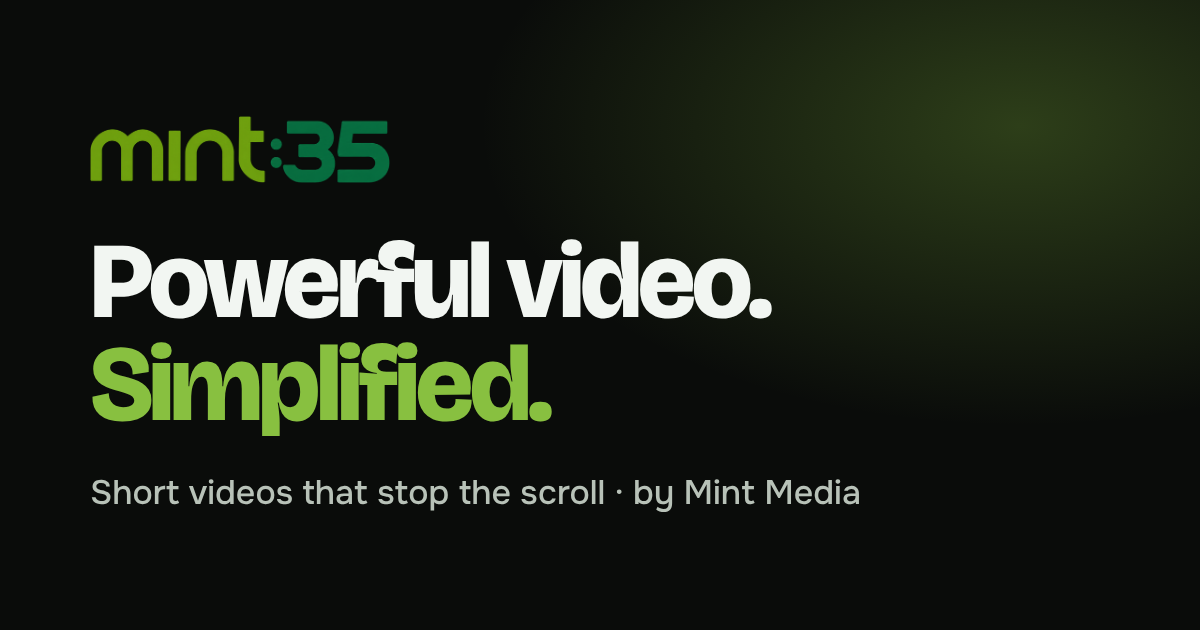
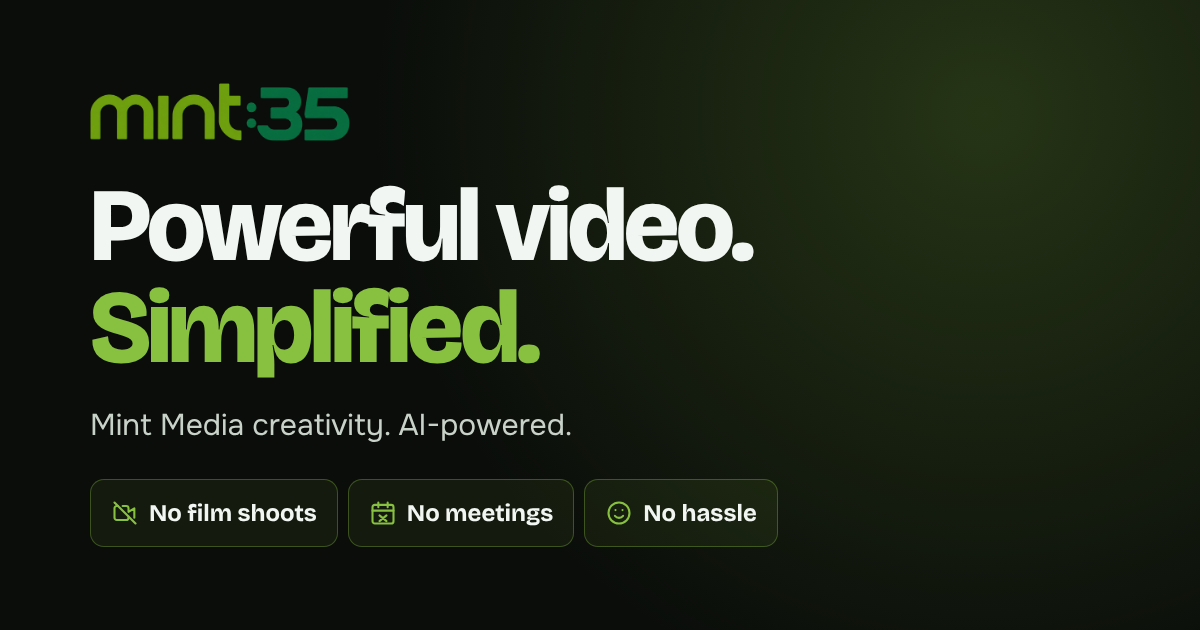
Mint 35: new link preview (WhatsApp, iMessage, social) (#77)
Claude-Session: https://claude.ai/code/session_01Gn4ycKQSx2aQDxxekZbfBs

Changed region(s): [[0.0617, 0.1206, 0.6475, 0.6937], [0.0617, 0.754, 0.7092, 0.8444]]

diff --git a/mint-35/app/layout.js b/mint-35/app/layout.js
@@ -5,8 +5,8 @@ import {Bricolage_Grotesque, Onest} from 'next/font/google'
 const display = Bricolage_Grotesque({subsets: ['latin'], axes: ['opsz'], variable: '--font-display', display: 'swap'})
 const body = Onest({subsets: ['latin'], variable: '--font-body', display: 'swap'})
 
-const title = 'Mint 35 — Short Videos by Mint Media'
-const description = 'A streamlined, fixed-scope way to create short videos, promos and ads. Submit your project details and brand assets, and Mint 35 turns them into a finished 30–60 second video.'
+const title = 'Mint 35 — Powerful video. Simplified.'
+const description = 'Mint Media creativity. AI-powered. Short videos, promos and ads with no film shoots, no meetings and no hassle.'
 
 export const metadata = {
   metadataBase: new URL(process.env.NEXT_PUBLIC_SITE_URL || 'https://www.mint35.com'),
